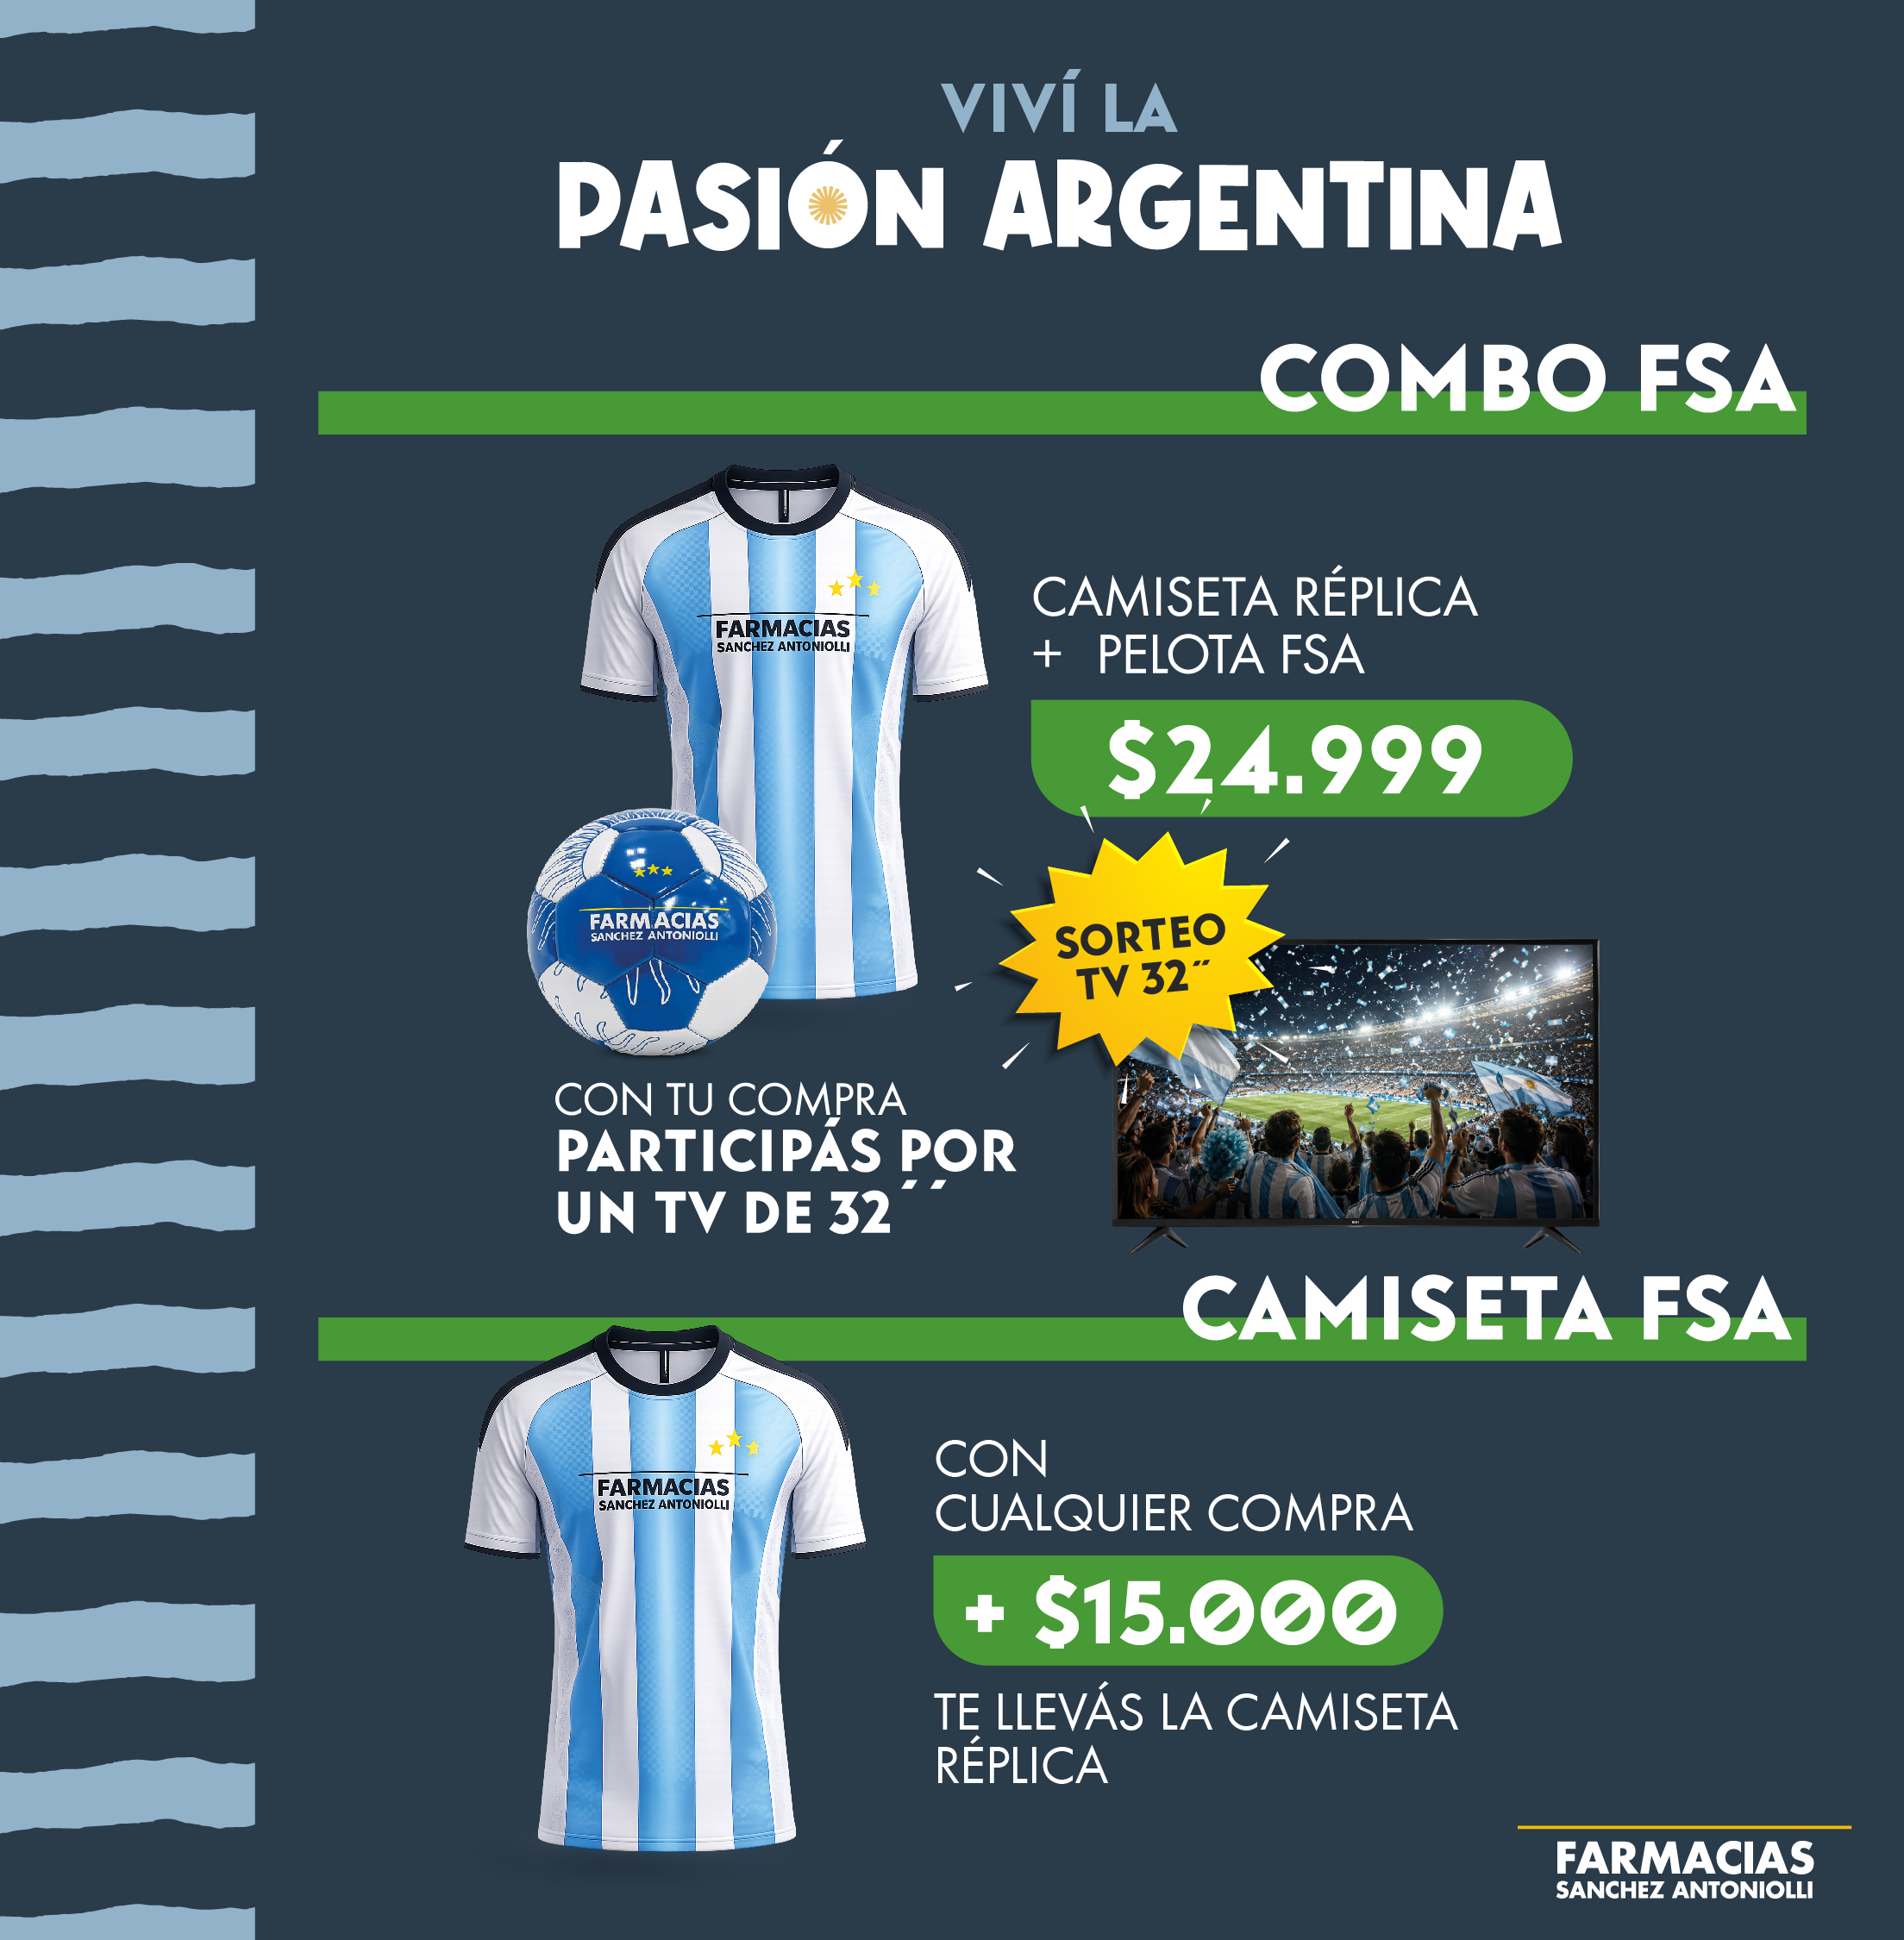
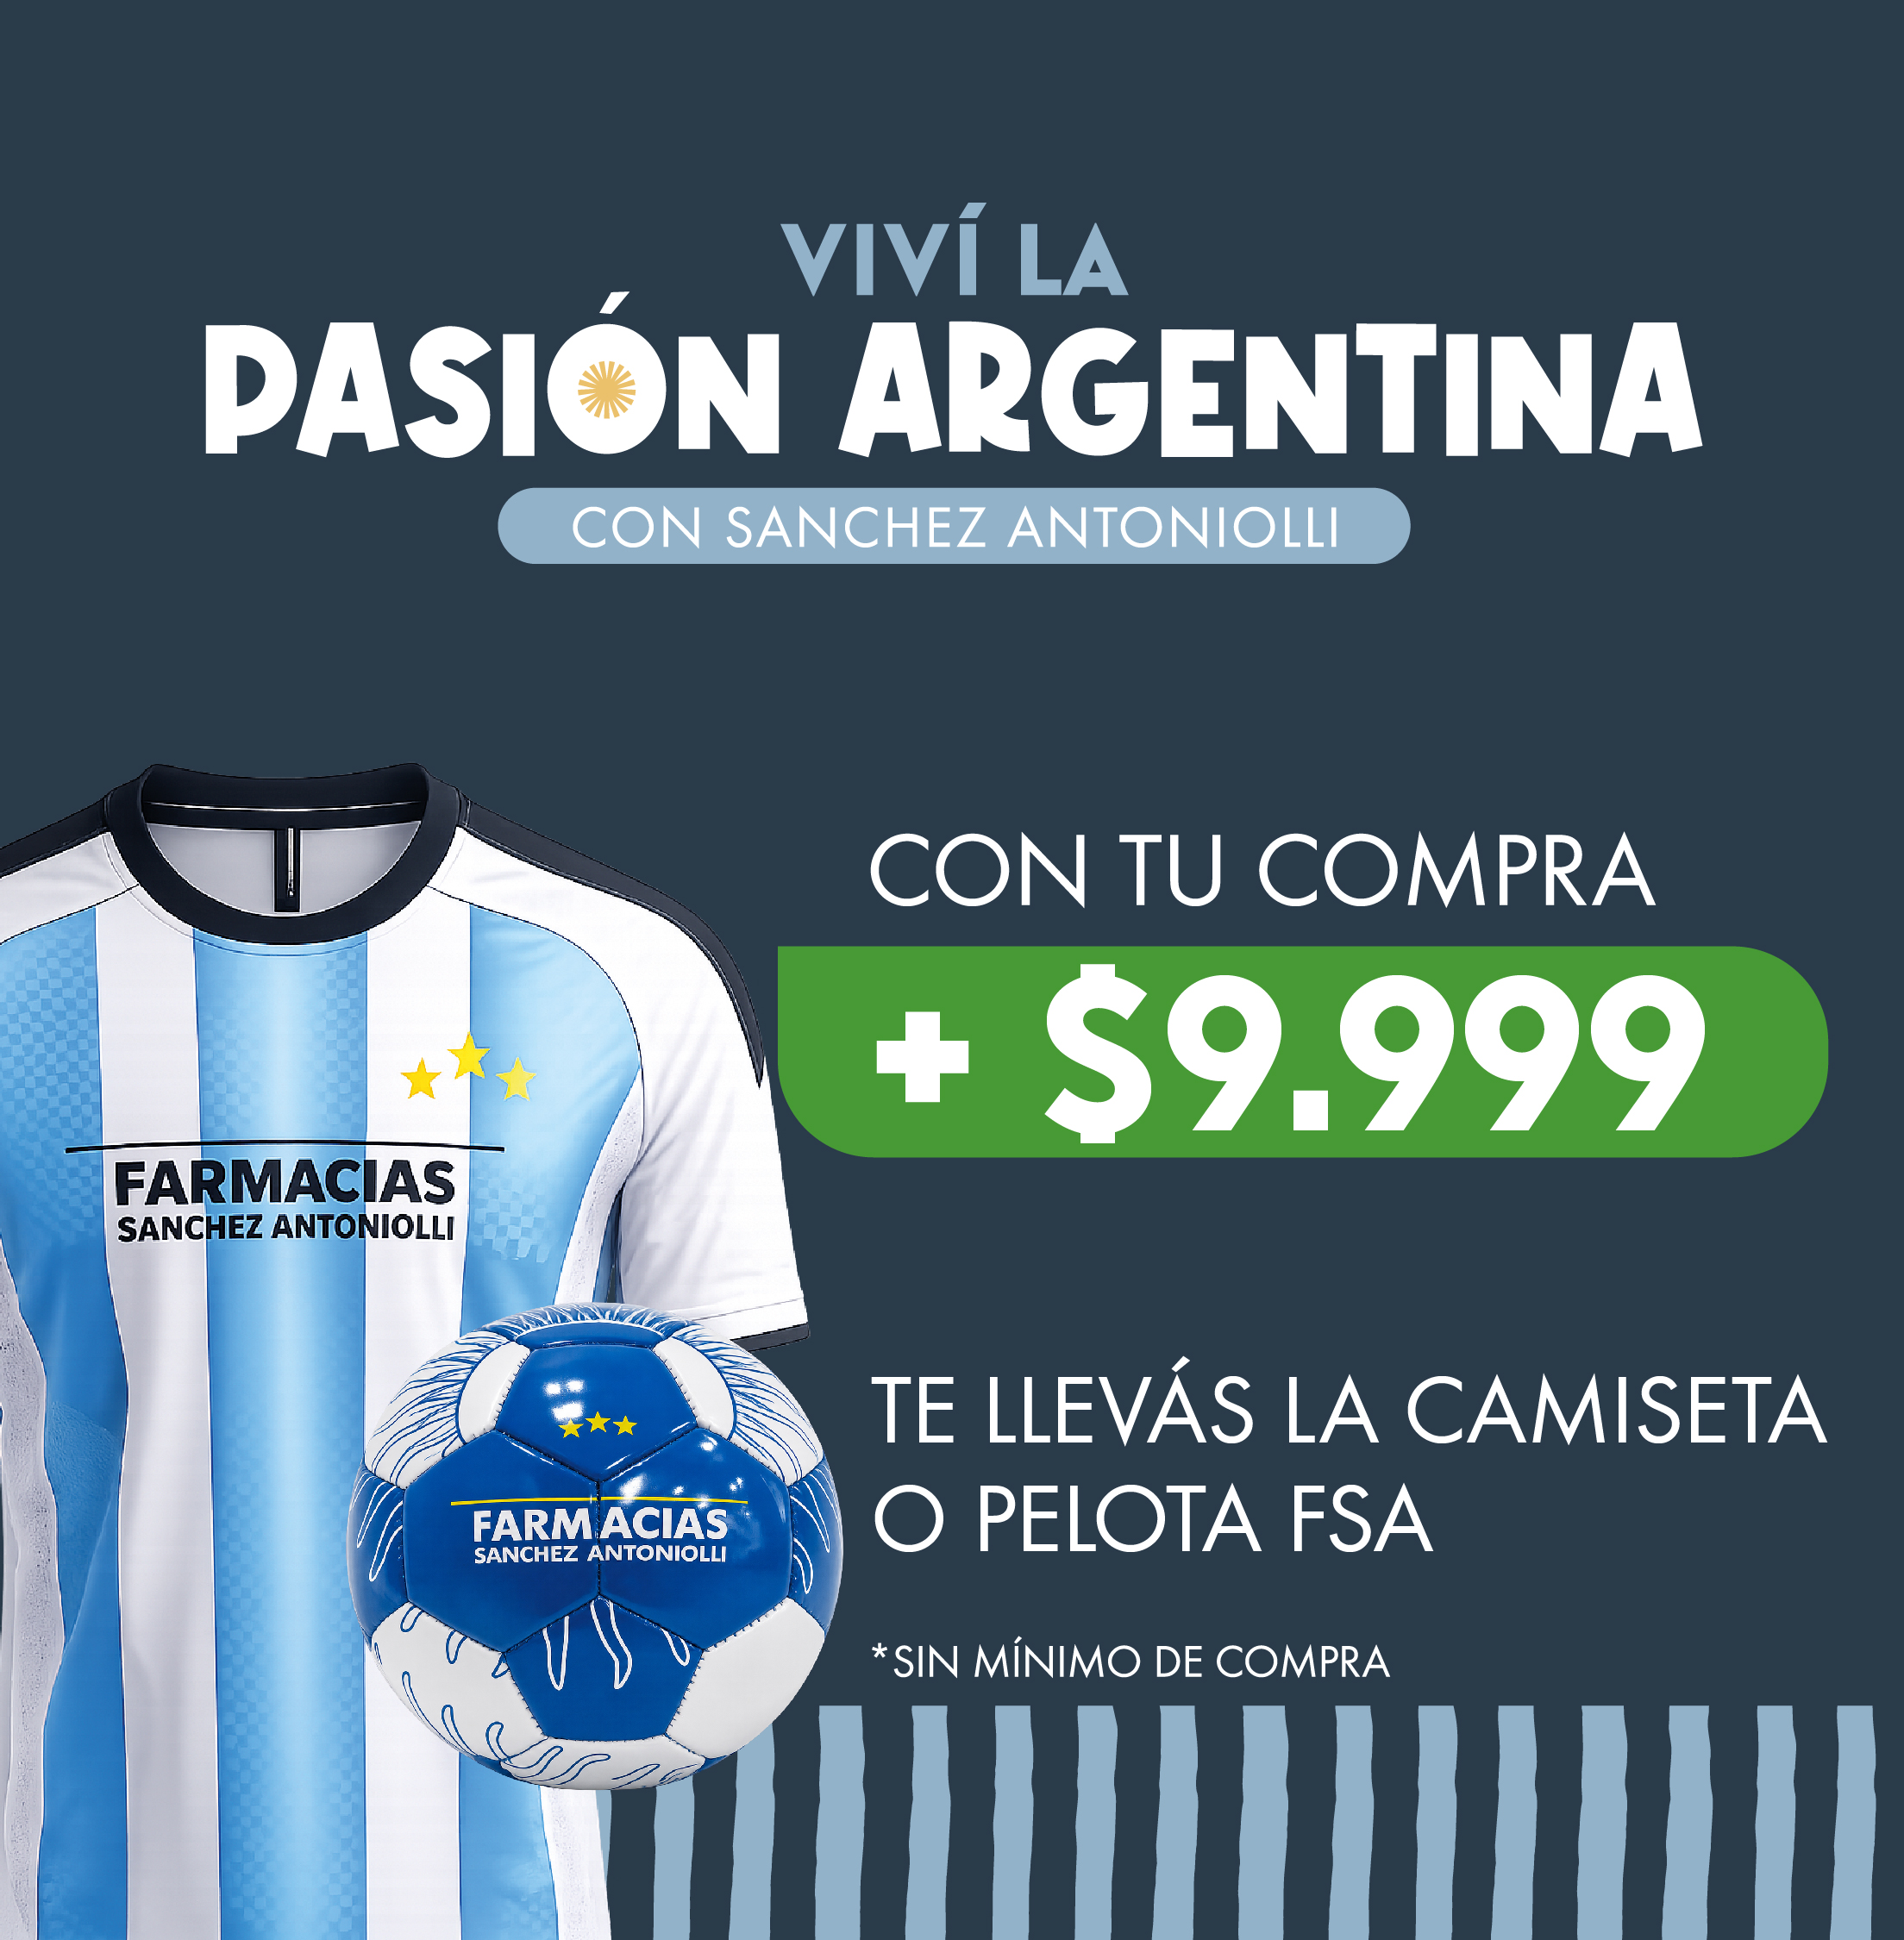
Update socios sorteos images and typography
Replace promotional banner and t-shirt images in the socios section. Increase font sizes in SociosSorteosView styling for improved readability: panel subtitle, metadata labels, and interest tags.

diff --git a/src/components/organisms/socios/SociosSorteosView.module.scss b/src/components/organisms/socios/SociosSorteosView.module.scss
@@ -70,6 +70,7 @@
 .panelSubtitle {
   margin-top: 0.25rem;
   color: #698088;
+  font-size: 1.1rem;
 }
 
 .iconBadge,
@@ -207,7 +208,7 @@
 .metaLabel,
 .identityLabel {
   display: block;
-  font-size: 0.8125rem;
+  font-size: 1rem;
   color: #698088;
 }
 
@@ -228,6 +229,7 @@
   display: block;
   margin-top: 0.5rem;
   color: #607982;
+  font-size: 1rem;
 }
 
 .primaryButton,